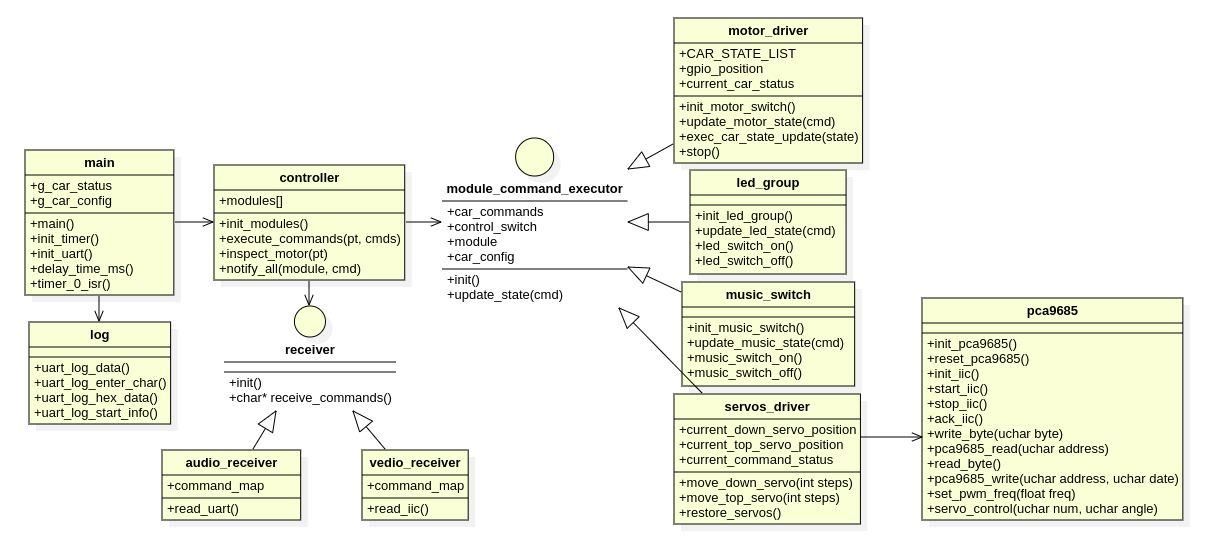
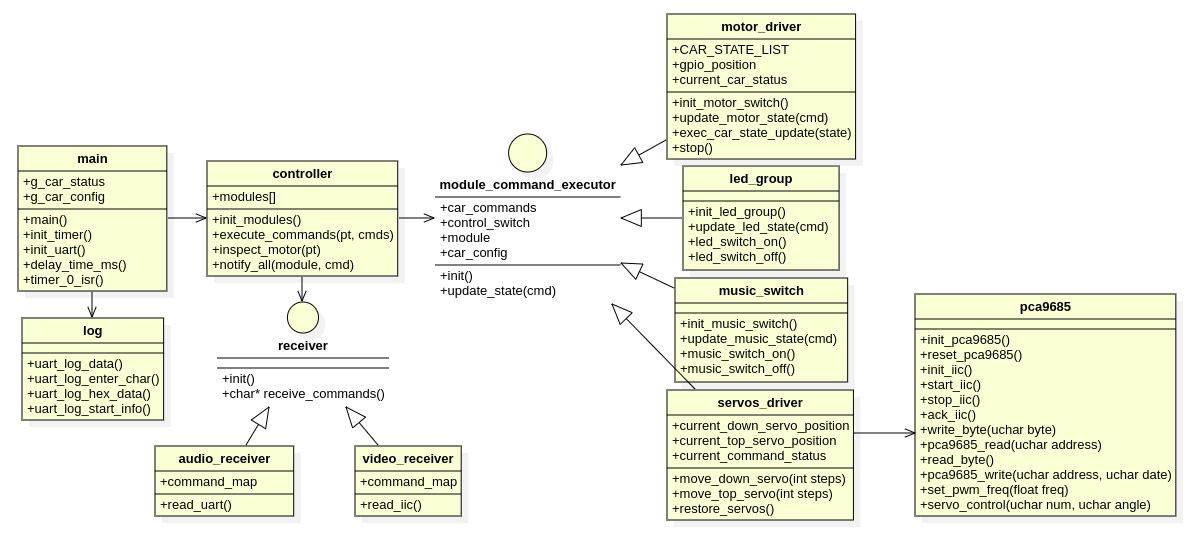
change vedio to video

Changed region(s): [[0.0, 0.0, 0.9916, 0.9564], [0.4958, 0.5554, 0.5268, 0.5862]]

diff --git a/software/main_control/src/src/video_executor.c b/software/main_control/src/src/video_executor.c
@@ -1,19 +1,19 @@
 /**
   ******************************************************************************
   *
-  * Implement of vedio executor.
+  * Implement of video_executor.
   * author: coregiu
   *
   *
   ******************************************************************************
 **/
-#include <vedio_executor.h>
-void init_vedio_state()
+#include <video_executor.h>
+void init_video_state()
 {
 
 }
 
-void update_vedio_state(struct command_context *command_context)
+void update_video_state(struct command_context *command_context)
 {
     switch (command_context->command)
         {
@@ -28,4 +28,4 @@ void update_vedio_state(struct command_context *command_context)
         }
 }
 
-const struct module_command_executor vedio_executor = {init_vedio_state, update_vedio_state};
+const struct module_command_executor video_executor = {init_video_state, update_video_state};

diff --git a/software/main_control/src/inc/video_executor.h b/software/main_control/src/inc/video_executor.h
@@ -1,18 +1,17 @@
 /**
   ******************************************************************************
   *
-  * Define of vedio receiver.
+  * Define of video executor.
   * author: coregiu
   *
   *
   ******************************************************************************
 **/
 
-#ifndef RECEIVER_VEDIO_H
-#define RECEIVER_VEDIO_H
+#ifndef EXECUTOR_VIDEO_H
+#define EXECUTOR_VIDEO_H
 
 #include "command.h"
 
-extern const struct module_command_receiver vedio_receiver;
-
+extern const struct module_command_executor video_executor;
 #endif

diff --git a/software/main_control/src/inc/video_receiver.h b/software/main_control/src/inc/video_receiver.h
@@ -1,17 +1,18 @@
 /**
   ******************************************************************************
   *
-  * Define of vedio executor.
+  * Define of video receiver.
   * author: coregiu
   *
   *
   ******************************************************************************
 **/
 
-#ifndef EXECUTOR_VEDIO_H
-#define EXECUTOR_VEDIO_H
+#ifndef RECEIVER_VIDEO_H
+#define RECEIVER_VIDEO_H
 
 #include "command.h"
 
-extern const struct module_command_executor vedio_executor;
+extern const struct module_command_receiver video_receiver;
+
 #endif

diff --git a/software/main_control/src/src/controller.c b/software/main_control/src/src/controller.c
@@ -70,7 +70,7 @@ void notify_all(enum module_def module, char command, enum command_type type)
         vehicle_executor.update_state(&command_context);
         break;
     case MODULE_VEDIO:
-        vedio_executor.update_state(&command_context);
+        video_executor.update_state(&command_context);
         break;
     case MODULE_ROBOOT:
         roboot_executor.update_state(&command_context);

diff --git a/software/main_control/src/inc/controller.h b/software/main_control/src/inc/controller.h
@@ -13,11 +13,11 @@
 
 #include "command.h"
 #include "vehicle_executor.h"
-#include "vedio_executor.h"
+#include "video_executor.h"
 #include "roboot_executor.h"
 #include "timer_executor.h"
 #include "audio_receiver.h"
-#include "vedio_receiver.h"
+#include "video_receiver.h"
 
 extern const char command_module_map[COMMANDS_LENGTH][2];
 

diff --git a/software/main_control/src/inc/command.h b/software/main_control/src/inc/command.h
@@ -88,7 +88,7 @@ enum module_def
     MODULE_UNKNOWN   = '9'
 };
 
-// define command receiver such as audio receiver and vedio receiver
+// define command receiver such as audio receiver and video receiver
 struct module_command_receiver
 {
 	void (*init)();

diff --git a/software/main_control/src/inc/roboot_executor.h b/software/main_control/src/inc/roboot_executor.h
@@ -1,7 +1,7 @@
 /**
   ******************************************************************************
   *
-  * Define of vedio executor.
+  * Define of video executor.
   * author: coregiu
   *
   *
